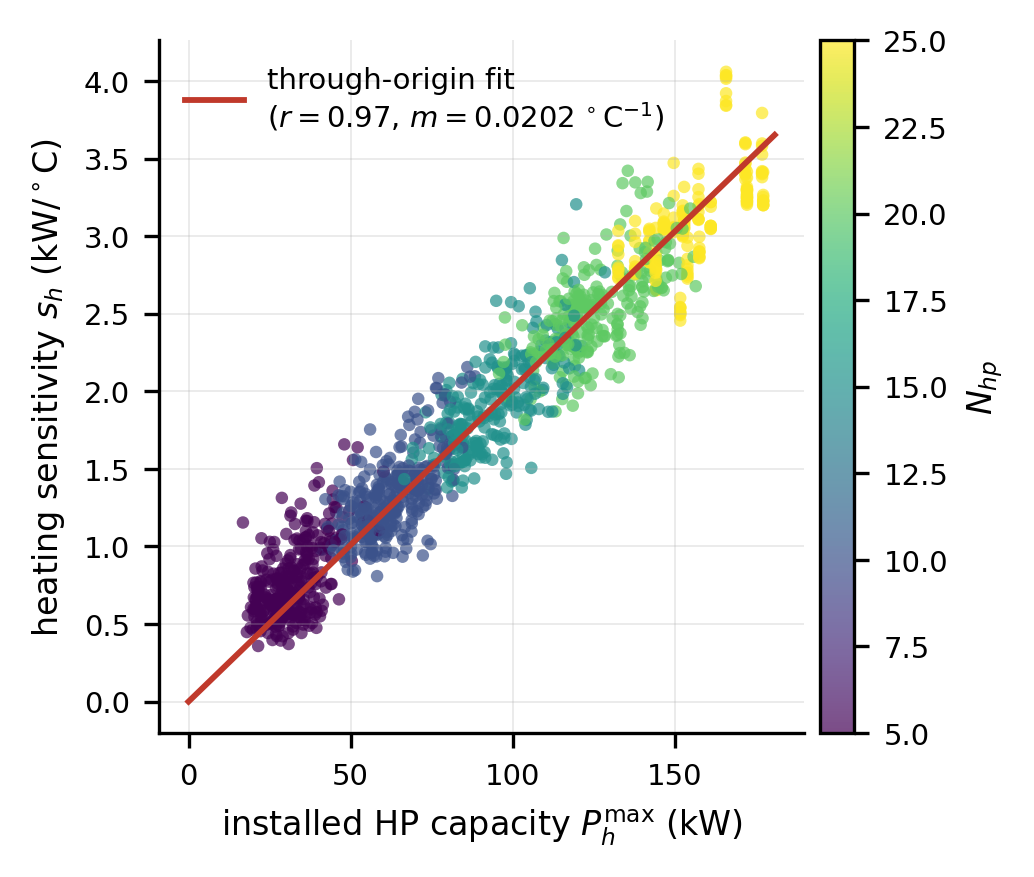
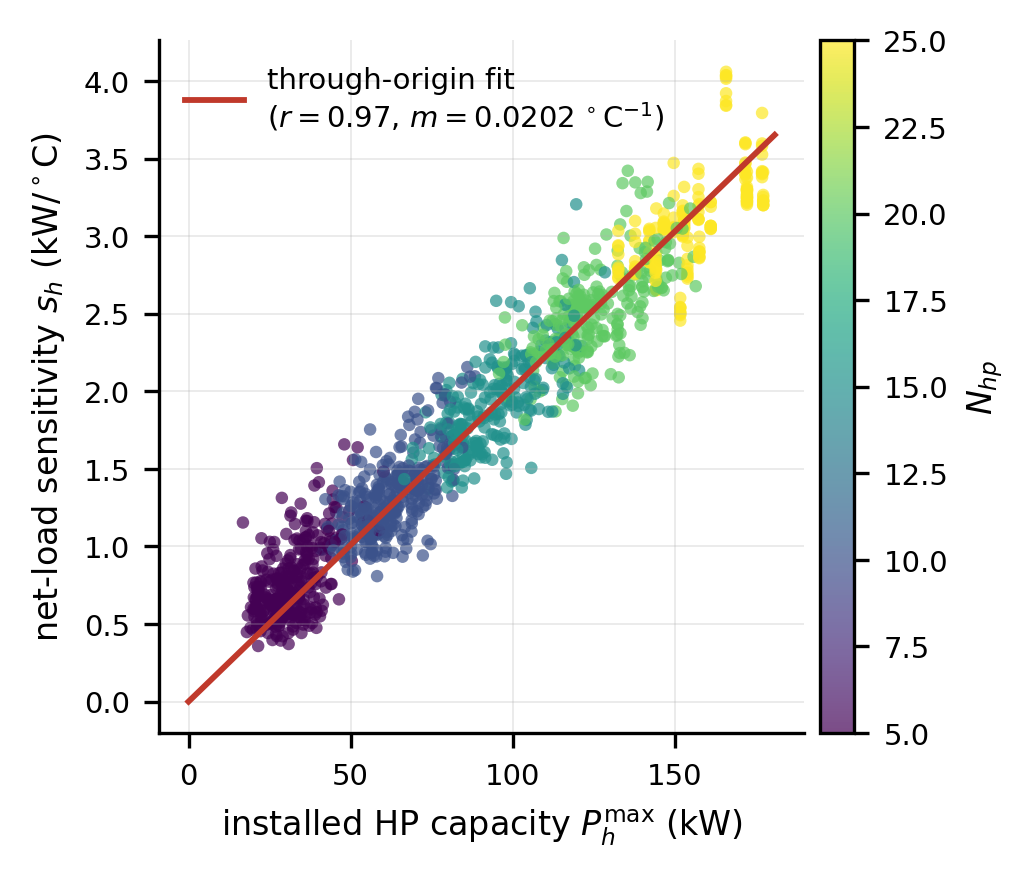
Elsevier layout: widths follow the column mode, journal-style references; Fig. 8 axis label
Two-column (5p) floats at column width, preprint at 0.6 text width; no
overfull boxes in either Elsevier layout or IEEE. References at footnote
size, tight spacing, URLs and DOIs in the text font. Fig. 8 y-axis now
'net-load sensitivity' (values unchanged). Includes Alex's switch to 5p.

Changed region(s): [[0.0309, 0.1539, 0.0619, 0.7389]]

diff --git a/paper/hp_sensitivity_elsevier.tex b/paper/hp_sensitivity_elsevier.tex
@@ -1,7 +1,8 @@
 % Elsevier version for Applied Energy (elsarticle, numbered references).
 % The text lives in content/; the IEEE version is hp_sensitivity_overleaf.tex.
 % Layout: [preprint,12pt] single column (submission). For a journal-like two-column proof use [5p,times,twocolumn].
-\documentclass[preprint,12pt]{elsarticle}
+%\documentclass[preprint,12pt]{elsarticle}
+\documentclass[5p,times,twocolumn]{elsarticle}
 
 \usepackage{amsmath}
 \usepackage{amssymb}
@@ -13,14 +14,29 @@
 \usepackage{booktabs}
 \usepackage{threeparttable}
 \usepackage[hidelinks]{hyperref}
+\usepackage{xurl}% long URLs in the references may break anywhere, so they stay inside the column
+\urlstyle{same}% URLs and DOIs in the text font, not typewriter
 \graphicspath{{figures/}}
 
-% single-column figures at about the IEEE column width; tables only shrink, never grow
-\newlength{\figw}\setlength{\figw}{0.6\textwidth}
-\newlength{\tabw}\setlength{\tabw}{\textwidth}
+% Float widths follow the layout chosen in \documentclass:
+%   two-column (5p): one-column floats fit the column, as in the IEEE version;
+%   one-column (preprint): figures at about the IEEE column width, tables up to the text width.
+% Tables only shrink to fit, never grow.
+\newlength{\figw}\newlength{\tabw}
+\makeatletter
+\if@twocolumn
+  \setlength{\figw}{\columnwidth}\setlength{\tabw}{\columnwidth}
+\else
+  \setlength{\figw}{0.6\textwidth}\setlength{\tabw}{\textwidth}
+\fi
+\makeatother
 \input{content/macros}
 
-% single-column floats: let tall tables sit near their text instead of drifting to the end
+% reference list in journal style: footnote size, tight spacing (natbib, loaded by elsarticle)
+\renewcommand{\bibfont}{\footnotesize}
+\setlength{\bibsep}{1pt plus 0.3ex}
+
+% let tall floats sit near their text instead of drifting to the end
 \renewcommand{\topfraction}{0.9}
 \renewcommand{\bottomfraction}{0.8}
 \renewcommand{\textfraction}{0.07}

diff --git a/scripts/outputs.py b/scripts/outputs.py
@@ -726,7 +726,7 @@ def fig_energy_error(below_th=True):
 
 
 def fig_slope_capacity():
-    """fig_slope_capacity: heating sensitivity vs installed HP capacity (Kloten)."""
+    """fig_slope_capacity: net-load sensitivity vs installed HP capacity (Kloten)."""
     G = _kloten_design()['rows']
     x, y = G.cap.to_numpy(), G.s_h.to_numpy()
     slope0 = np.sum(x * y) / np.sum(x * x); r = np.corrcoef(x, y)[0, 1]
@@ -737,7 +737,7 @@ def fig_slope_capacity():
     xl = np.array([0, x.max() * 1.02])
     ax.plot(xl, slope0 * xl, color=hf.C_HP, lw=1.4,
             label=f'through-origin fit\n($r={r:.2f}$, $m={slope0:.4f}\\,^\\circ$C$^{{-1}}$)')
-    ax.set(xlabel='installed HP capacity $P_h^{\\max}$ (kW)', ylabel='heating sensitivity $s_h$ (kW/$^\\circ$C)')
+    ax.set(xlabel='installed HP capacity $P_h^{\\max}$ (kW)', ylabel='net-load sensitivity $s_h$ (kW/$^\\circ$C)')
     ax.legend(fontsize=7, loc='upper left')
     cb = fig.colorbar(sc, ax=ax, pad=0.02); cb.set_label('$N_{hp}$', fontsize=8)
     fig.tight_layout(); hf.save(fig, 'fig_slope_capacity')

diff --git a/REVISION_LOG.md b/REVISION_LOG.md
@@ -425,3 +425,6 @@ An external citation audit was checked against the sources before acting on it. 
 - Elsevier only: relaxed float fractions, so the tall transfer table stays in Sec. 5.2 instead of drifting past the references.
 - Overleaf: upload the `content/` folder along with the wrapper(s).
 - Alex's in-progress edits to the manuscript ("energy demand", the moved "This paper joins…" sentence, contribution 2, and the "% this sentence is weird" note on the TCL-control sentence) are carried over unchanged into `content/body.tex`.
+- **Layout fixes (Alex, 26 Oct; after switching to `[5p,times,twocolumn]`):** float widths now follow the class option. Two-column: figures and tables at the column width, as in IEEE. One-column preprint: figures at 0.6 text width, tables up to the text width. All three builds (Elsevier two-column 17 pp, Elsevier preprint 39 pp, IEEE 14 pp) have no overfull boxes. The reference list uses footnote size with tight spacing (`\bibfont`, `\bibsep`). URLs and DOIs are in the text font (`\urlstyle{same}`) and may break anywhere (`xurl`).
+- Fig. 8 y-axis relabelled "net-load sensitivity s_h" (was "heating sensitivity"), matching the text; regenerated with identical values (r = 0.97, slope 0.020).
+- "% this sentence is weird" (Sec. I, TCL control models): replacement suggested to Alex, not applied.
